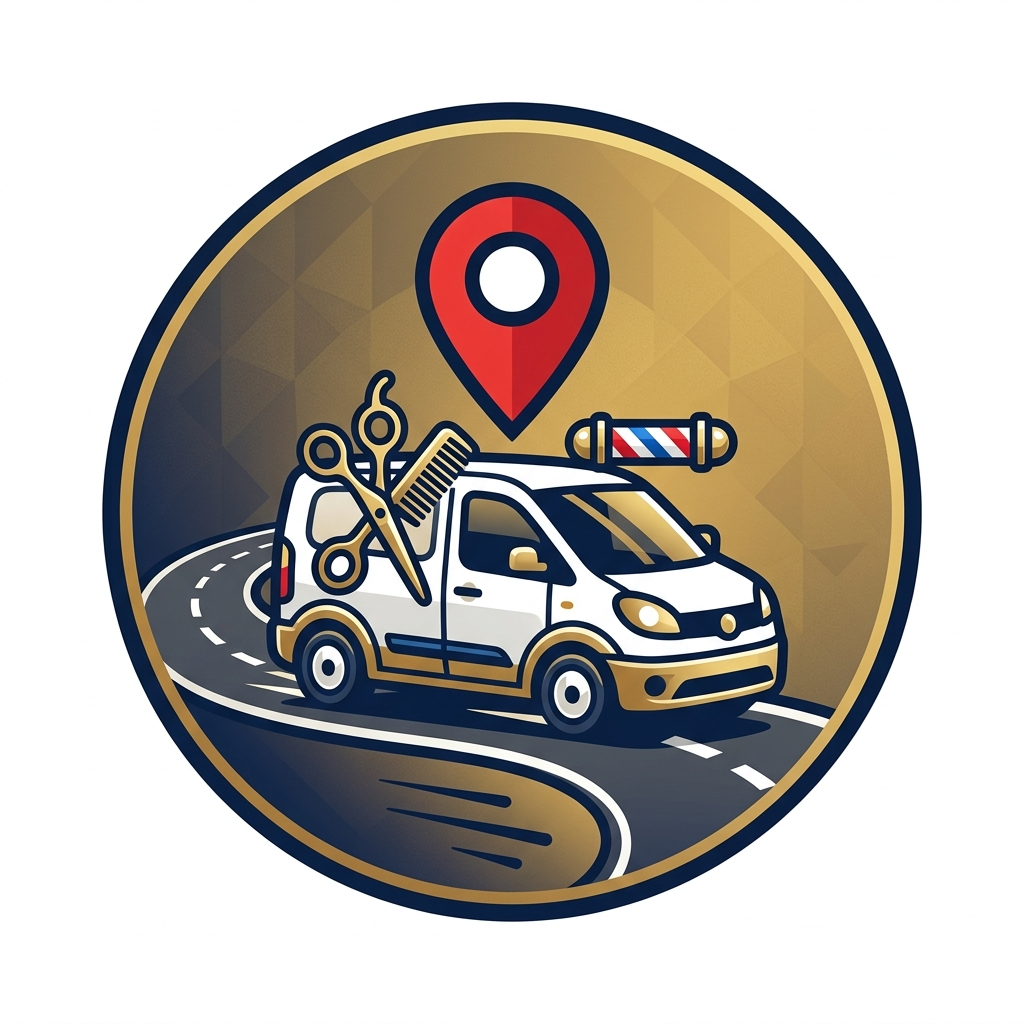
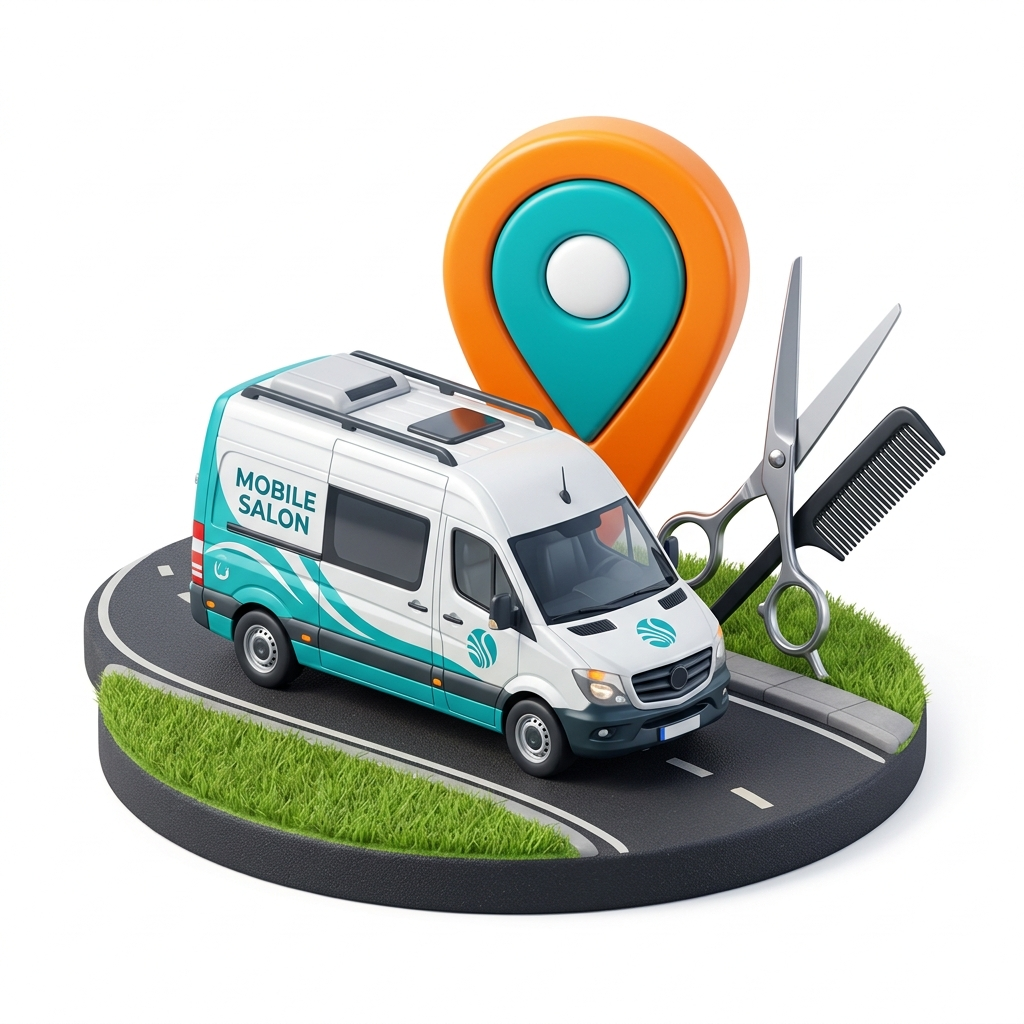
revize

diff --git a/src/types/shop.ts b/src/types/shop.ts
@@ -18,7 +18,7 @@ export const ShopCategory = {
     ErkekKuafor: 1,
     Kuafor: 2,
     GuzellikMerkezi: 3,
-    GenelKuafor: 4,
+    KuaforTag: 4,
     DovmePiercingStudyosu: 5,
     TirnakSalonu: 7,
     CiltBakimMerkezi: 8,
@@ -35,7 +35,7 @@ export const ShopCategoryLabels: { [key in ShopCategory]: string } = {
     [ShopCategory.ErkekKuafor]: "Erkek Kuaför",
     [ShopCategory.Kuafor]: "Kadın Kuaför",
     [ShopCategory.GuzellikMerkezi]: "Güzellik Merkezi",
-    [ShopCategory.GenelKuafor]: "Kuaför Tag",
+    [ShopCategory.KuaforTag]: "Kuaför Tag",
     [ShopCategory.DovmePiercingStudyosu]: "Dövme & Piercing",
     [ShopCategory.TirnakSalonu]: "Tırnak Salonu",
     [ShopCategory.CiltBakimMerkezi]: "Cilt Bakım Merkezi",

diff --git a/src/pages/HomePage.tsx b/src/pages/HomePage.tsx
@@ -805,7 +805,7 @@ export const HomePage: React.FC<HomePageProps> = ({ showFavoritesOnly = false })
                                 { id: ShopCategory.ErkekKuafor,              label: ShopCategoryLabels[ShopCategory.ErkekKuafor],              image: '/images/categories/berber.png' },
                                 { id: ShopCategory.Kuafor,                   label: ShopCategoryLabels[ShopCategory.Kuafor],                   image: '/images/categories/kuafor.png' },
                                 { id: ShopCategory.PetKuafor,               label: ShopCategoryLabels[ShopCategory.PetKuafor],               image: '/images/categories/petkuafor.png' },
-                                { id: ShopCategory.GenelKuafor,             label: ShopCategoryLabels[ShopCategory.GenelKuafor],             image: '/images/categories/kuafortag.png' },
+                                { id: ShopCategory.KuaforTag,             label: ShopCategoryLabels[ShopCategory.KuaforTag],             image: '/images/categories/kuafortag.png' },
                                 { id: ShopCategory.GuzellikMerkezi,          label: ShopCategoryLabels[ShopCategory.GuzellikMerkezi],          image: '/images/categories/guzellik.png' },
                                 { id: ShopCategory.DovmePiercingStudyosu,   label: ShopCategoryLabels[ShopCategory.DovmePiercingStudyosu],   image: '/images/categories/dovme.png' },
                                 { id: ShopCategory.MakyajKasKirpikStudyosu, label: ShopCategoryLabels[ShopCategory.MakyajKasKirpikStudyosu], image: '/images/categories/makyaj.png' },